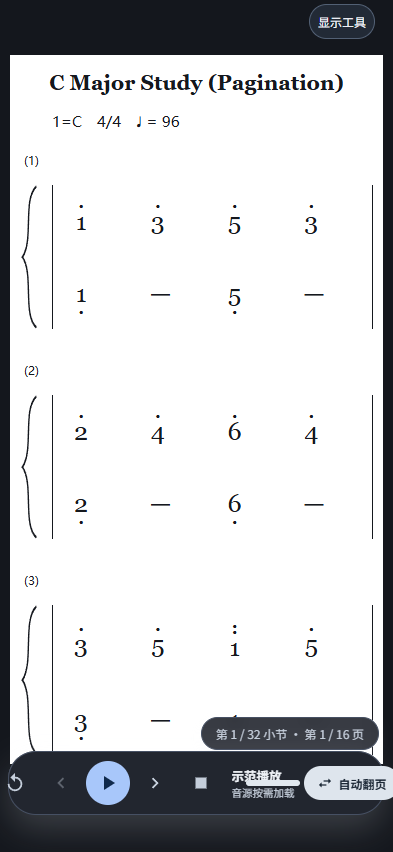
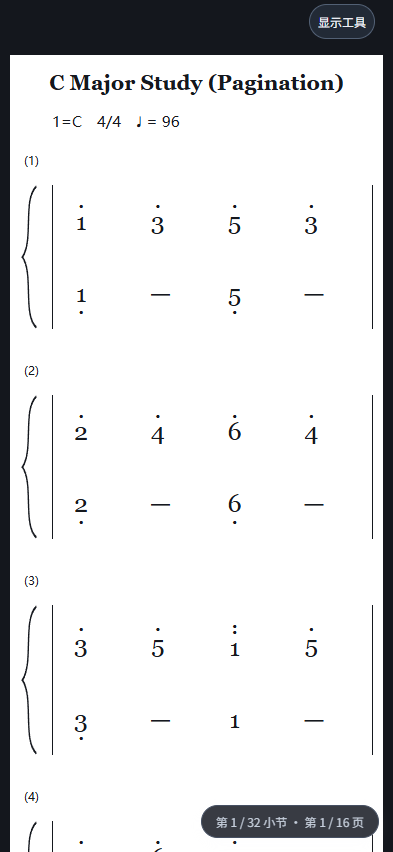
fix: hide playback controls and reclaim space in focus mode

Changed region(s): [[0.0, 0.8239, 1.0, 1.0]]

diff --git a/css/performance.css b/css/performance.css
@@ -43,12 +43,14 @@
   background: #14171d;
 }
 .performance-focus #screen-score > .topbar,
+.performance-focus #bar-layer,
 .performance-focus .mic-tab,
 .performance-focus .mic-panel {
   display: none !important;
 }
 .performance-focus #score-body {
   height: 100dvh !important;
+  padding-bottom: 0 !important;
 }
 @media (max-width: 600px) {
   .performance-controls {
